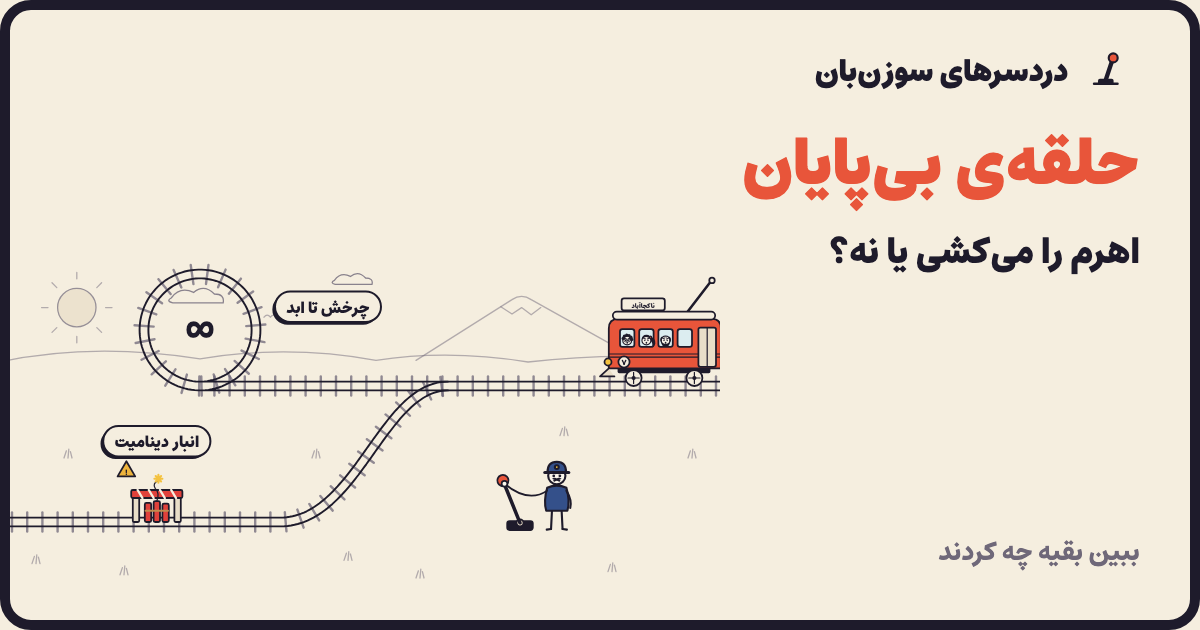
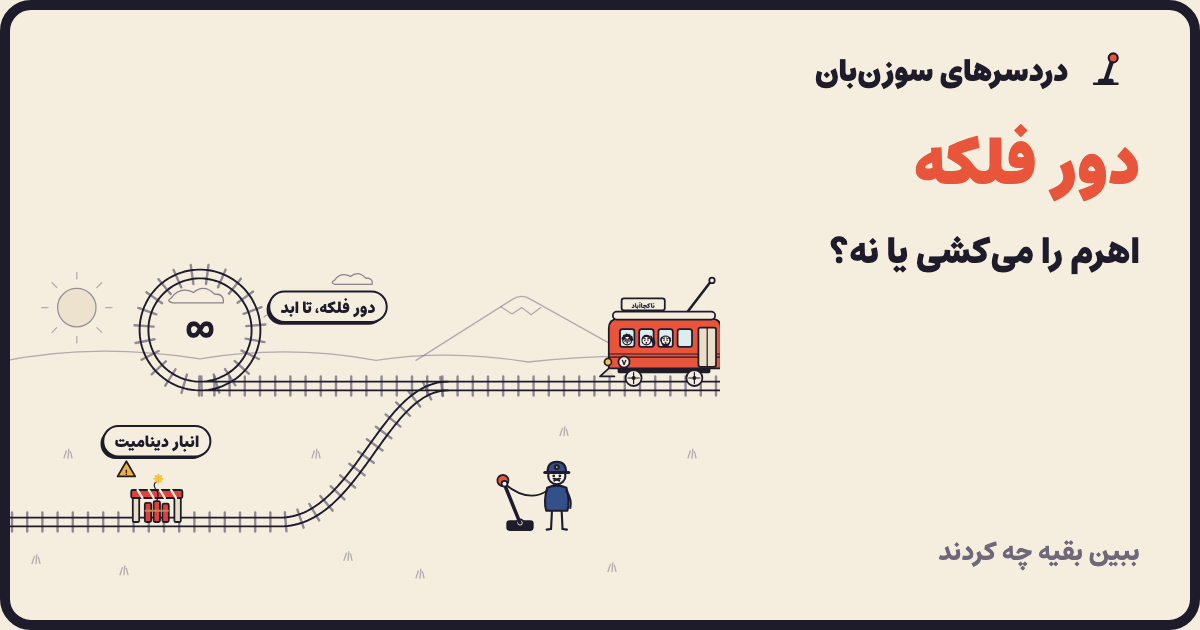
Regenerate OG images for v2 level ids and update README

Changed region(s): [[0.6167, 0.181, 0.9558, 0.3317], [0.2158, 0.4524, 0.3392, 0.5127]]

diff --git a/README.md b/README.md
@@ -6,13 +6,13 @@
 
 ## ویژگیها
 
-- **۲۹ مرحله**: ترکیبی از سناریوهای کلاسیک (با چاشنی فارسی) و سناریوهای کاملاً ایرانی؛ از چای تازهدم و تهدیگ تا دربی، صف نانوایی، تعارف و فیلترشکن.
+- **۳۵ مرحله در سه پرده** (گرم کردن، ارزشها، خود شما): همهی ۲۸ چالش بازی اصلی با متن و جزئیات خودمان، بهاضافهی مراحل ایرانی؛ از چای تازهدم و تهدیگ تا دربی، ماهیهای هفتسین، پراید و پورشه، یوزپلنگ ایرانی و تعارف. مراحل ویژه: پل عابر (بدون اهرم، فقط هل دادن)، گاز، دود، قرعه، و «بازیکن قبلی» در پایان که اهرمش دست یکی از بازیکنهای قبلی است.
 - **تصویرسازی وکتور خطی** که همه با کد و به صورت SVG ساخته میشوند (`public/js/art.js`)؛ آدمها مثل نسخهی اصلی روی ریل بسته شدهاند.
 - **انیمیشنها**: لودر، «طراحی با قلم» هر صحنه، ورود قطار، فنر اهرم، حرکت قطار روی پیچ و حلقه، پرتاب، حباب «شَتَلَق!»، لرزش صفحه، ذرات، شمارندهها و نمودار دایرهای، کاغذرنگی پایانی و ترنزیشن بین مرحلهها.
 - **میکروانیمیشنها**: لرزیدن آدمها از ترس، پیشنمایش مسیر با هاور روی دکمهها، بخار چای، دود قطار، ابر و پرنده و…
 - **صدا و موسیقی**: افکتها و یک موسیقی لوفای ملایم همه با Web Audio ساخته میشوند (بدون فایل صوتی) و هر کدام دکمهی قطع جدا دارند. در آیفون با کلید سکوت هم شنیده میشوند.
 - **اشتراکگذاری**: در صفحهی اول، هر مرحله و صفحهی پایانی؛ تصویر استوری و پست با canvas ساخته میشود. لینک هر مرحله (`/l/<id>`) همان مرحله را به صورت چالش تکی باز میکند و پیشنمایش اختصاصی خودش را در پیامرسانها دارد.
-- **رأیگیری زنده**: هر نشست برای هر مرحله یک رأی دارد (با تغییر نظر، رأی قبلی جابهجا میشود)؛ درصد موافق/مخالف و تعداد کل رأیها نمایش داده میشود.
+- **رأیگیری زنده**: هر نشست برای هر مرحله یک رأی دارد (با تغییر نظر، رأی قبلی جابهجا میشود)؛ درصد موافق/مخالف و تعداد کل رأیها نمایش داده میشود. تا وقتی مرحلهای کمتر از ۳۰ رأی دارد (`MIN_VOTES`) درصد و نمودارش نشان داده نمیشود و در تیپ اخلاقی هم حساب نمیشود. مرحلهی «بازیکن قبلی» رأی نمیگیرد.
 - **جمعبندی پایانی**: تعداد کل تلفات، «تیپ اخلاقی» شما، فهرست تصمیمها و اشتراکگذاری نتیجه.
 - راستبهچپ کامل، فونت [استعداد](https://fonts.google.com/specimen/Estedad) (روی خود سرور میزبانی میشود)، اعداد فارسی، حالت تاریک، موبایل، کیبورد (۱/۲ برای انتخاب، Enter برای بعدی) و احترام به `prefers-reduced-motion`.
 
@@ -121,6 +121,8 @@ public/js/app.js     جریان بازی، نتیجهها و صفحهی پ
   labels: { pull: 'متن دکمهی کشیدن', stay: 'متن دکمهی کاری نکن' },   // اختیاری
 }
 ```
+
+گزینههای ویژه (توضیح کامل بالای `levels.js`): `mode: 'push' | 'gas' | 'reveal'`، `deaths: { stay, pull }` برای تلفات ثابت، `note` روی هر ریل برای یادداشت بعد از رفتن قطار، و `prank`، `smoky`، `lottery`.
 
 نوع آیتمها (`k`) در شیء `ITEMS` فایل `art.js` تعریف شدهاند. برای دیدن مستقیم یک مرحله: `/l/my-level` (یا `/#level-7`). بعد از افزودن مرحله `node scripts/render-og.mjs my-level` را اجرا کنید؛ تا آن موقع پیشنمایش لینک از `og.png` استفاده میکند.
 
